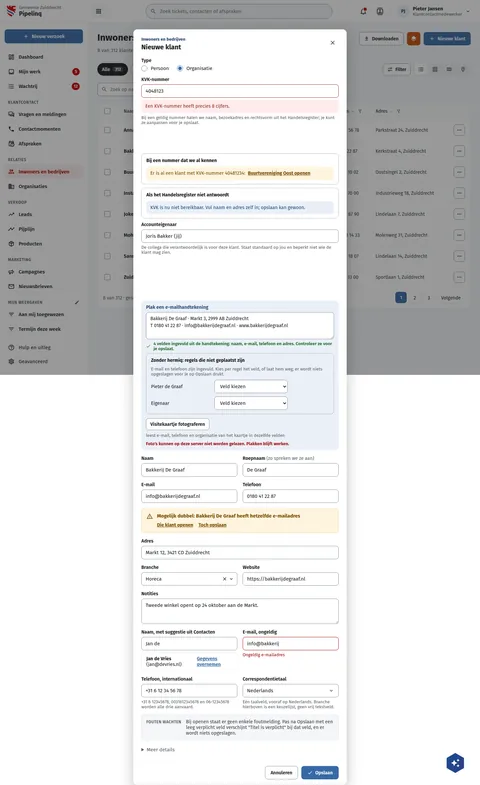
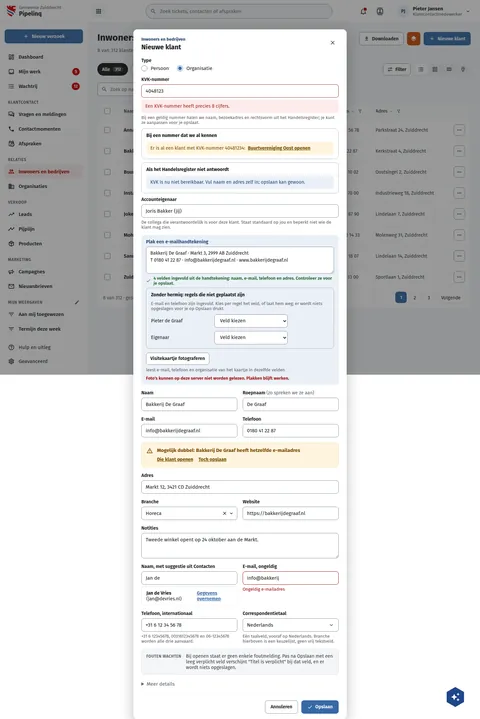
feat(screens): fold #1122 and #1125, and set the KVK frames on PqKlantNieuw under the field
Rebuilds the 33 boards of both PRs from main, with both rows' boards in rowPipelinqDekkingB6
and index.json and screens.json limited to those boards. The KVK and account owner fields on
PqKlantNieuw no longer take a 220 px flex basis inside the column, so the frames sit under them.

diff --git a/preview/screens/boards/PqKlantNieuw.html b/preview/screens/boards/PqKlantNieuw.html
@@ -327,7 +327,7 @@ a{color:var(--sc-primary, #3669a5)}a:hover{color:var(--sc-primary-deep, #234a78)
         <fieldset style="margin: 0; padding: 0; border: 0; display: flex; flex-direction: column; gap: 8px">
           <legend style="padding: 0 0 6px; font-size: 14px; font-weight: 600">Type</legend>
           <div style="display: flex; flex-wrap: wrap; gap: 24px"><label style="display: flex; align-items: center; gap: 10px; font-size: 15px; cursor: pointer"><input type="radio" name="pq-nc-type" style="width: 18px; height: 18px; margin: 0; accent-color: var(--sc-primary, #3669a5)">Persoon</label><label style="display: flex; align-items: center; gap: 10px; font-size: 15px; cursor: pointer"><input type="radio" name="pq-nc-type" checked style="width: 18px; height: 18px; margin: 0; accent-color: var(--sc-primary, #3669a5)">Organisatie</label></div>
-        </fieldset><div style="display: flex; flex-direction: column; gap: 10px"><div style="display: flex; flex-direction: column; gap: 6px; min-width: 0; flex: 1 1 220px"><label for="pq-nc-kvk" style="font-size: 14px; font-weight: 600">KVK-nummer</label><input id="pq-nc-kvk" type="text" value="4048123" aria-invalid="true" aria-describedby="pq-nc-kvk-e" style="width: 100%; box-sizing: border-box; border: 1px solid #a3281f; border-radius: 8px; font: 400 15px var(--sc-font, 'Fira Sans'), sans-serif; color: var(--sc-work-ink, #1b1c1d); background: #ffffff; height: 40px; padding: 0 12px"><span id="pq-nc-kvk-e"><span role="alert" style="display: flex; gap: 8px; align-items: flex-start; padding: 10px 12px; border-radius: 8px; background: #fdecec; color: #a3281f; font-size: 14px; line-height: 1.4">Een KVK-nummer heeft precies 8 cijfers.</span></span><span style="font-size: 13px; color: var(--sc-work-muted, #5e6168)">Bij een geldig nummer halen we naam, bezoekadres en rechtsvorm uit het Handelsregister; je kunt ze aanpassen voor je opslaat.</span></div><div style="display: flex; flex-direction: column; gap: 10px; padding: 12px 14px; border: 1px dashed var(--sc-work-field, #828a95); border-radius: 10px"><strong style="font-size: 14px">Bij een nummer dat we al kennen</strong><span style="display: flex; gap: 8px; align-items: flex-start; padding: 10px 12px; border-radius: 8px; background: #fff4de; color: #7a4f00; font-size: 14px; line-height: 1.4">Er is al een klant met KVK-nummer 40481234: <a href="PqOrganisatie.html" style="color: #7a4f00; font-weight: 700">Buurtvereniging Oost openen</a></span></div><div style="display: flex; flex-direction: column; gap: 10px; padding: 12px 14px; border: 1px dashed var(--sc-work-field, #828a95); border-radius: 10px"><strong style="font-size: 14px">Als het Handelsregister niet antwoordt</strong><span style="display: flex; gap: 8px; align-items: flex-start; padding: 10px 12px; border-radius: 8px; background: var(--sc-primary-light, #eaf0f7); color: var(--sc-primary-deep, #234a78); font-size: 14px; line-height: 1.4">KVK is nu niet bereikbaar. Vul naam en adres zelf in; opslaan kan gewoon.</span></div><div style="display: flex; flex-direction: column; gap: 6px; min-width: 0; flex: 1 1 220px"><label for="pq-nc-owner" style="font-size: 14px; font-weight: 600">Accounteigenaar</label><input id="pq-nc-owner" type="text" value="Joris Bakker (jij)" style="width: 100%; box-sizing: border-box; border: 1px solid var(--sc-work-field, #828a95); border-radius: 8px; font: 400 15px var(--sc-font, 'Fira Sans'), sans-serif; color: var(--sc-work-ink, #1b1c1d); background: #ffffff; height: 40px; padding: 0 12px"><span style="font-size: 13px; color: var(--sc-work-muted, #5e6168)">De collega die verantwoordelijk is voor deze klant. Staat standaard op jou en beperkt niet wie de klant mag zien.</span></div></div>
+        </fieldset><div style="display: flex; flex-direction: column; gap: 10px"><div style="display: flex; flex-direction: column; gap: 6px; min-width: 0"><label for="pq-nc-kvk" style="font-size: 14px; font-weight: 600">KVK-nummer</label><input id="pq-nc-kvk" type="text" value="4048123" aria-invalid="true" aria-describedby="pq-nc-kvk-e" style="width: 100%; box-sizing: border-box; border: 1px solid #a3281f; border-radius: 8px; font: 400 15px var(--sc-font, 'Fira Sans'), sans-serif; color: var(--sc-work-ink, #1b1c1d); background: #ffffff; height: 40px; padding: 0 12px"><span id="pq-nc-kvk-e"><span role="alert" style="display: flex; gap: 8px; align-items: flex-start; padding: 10px 12px; border-radius: 8px; background: #fdecec; color: #a3281f; font-size: 14px; line-height: 1.4">Een KVK-nummer heeft precies 8 cijfers.</span></span><span style="font-size: 13px; color: var(--sc-work-muted, #5e6168)">Bij een geldig nummer halen we naam, bezoekadres en rechtsvorm uit het Handelsregister; je kunt ze aanpassen voor je opslaat.</span></div><div style="display: flex; flex-direction: column; gap: 10px; padding: 12px 14px; border: 1px dashed var(--sc-work-field, #828a95); border-radius: 10px"><strong style="font-size: 14px">Bij een nummer dat we al kennen</strong><span style="display: flex; gap: 8px; align-items: flex-start; padding: 10px 12px; border-radius: 8px; background: #fff4de; color: #7a4f00; font-size: 14px; line-height: 1.4">Er is al een klant met KVK-nummer 40481234: <a href="PqOrganisatie.html" style="color: #7a4f00; font-weight: 700">Buurtvereniging Oost openen</a></span></div><div style="display: flex; flex-direction: column; gap: 10px; padding: 12px 14px; border: 1px dashed var(--sc-work-field, #828a95); border-radius: 10px"><strong style="font-size: 14px">Als het Handelsregister niet antwoordt</strong><span style="display: flex; gap: 8px; align-items: flex-start; padding: 10px 12px; border-radius: 8px; background: var(--sc-primary-light, #eaf0f7); color: var(--sc-primary-deep, #234a78); font-size: 14px; line-height: 1.4">KVK is nu niet bereikbaar. Vul naam en adres zelf in; opslaan kan gewoon.</span></div><div style="display: flex; flex-direction: column; gap: 6px; min-width: 0"><label for="pq-nc-owner" style="font-size: 14px; font-weight: 600">Accounteigenaar</label><input id="pq-nc-owner" type="text" value="Joris Bakker (jij)" style="width: 100%; box-sizing: border-box; border: 1px solid var(--sc-work-field, #828a95); border-radius: 8px; font: 400 15px var(--sc-font, 'Fira Sans'), sans-serif; color: var(--sc-work-ink, #1b1c1d); background: #ffffff; height: 40px; padding: 0 12px"><span style="font-size: 13px; color: var(--sc-work-muted, #5e6168)">De collega die verantwoordelijk is voor deze klant. Staat standaard op jou en beperkt niet wie de klant mag zien.</span></div></div>
         <div style="display: flex; flex-direction: column; gap: 6px; min-width: 0; padding: 12px 14px; border-radius: 10px; background: var(--sc-primary-light, #eaf0f7)"><label for="pq-nc-paste" style="font-size: 14px; font-weight: 600; color: var(--sc-primary-deep, #234a78)">Plak een e-mailhandtekening</label><textarea id="pq-nc-paste" rows="3" placeholder="Plak hier de handtekening onder een e-mail. We vullen naam, e-mail, telefoon en adres in." style="width: 100%; box-sizing: border-box; padding: 8px 12px; border: 1px solid var(--sc-work-field, #828a95); border-radius: 8px; background: #ffffff; font: 400 14px/1.5 var(--sc-font, 'Fira Sans'), sans-serif; color: var(--sc-work-ink, #1b1c1d); resize: vertical">Bakkerij De Graaf · Markt 3, 2999 AB Zuiddrecht
 T 0180 41 22 87 · info@bakkerijdegraaf.nl · www.bakkerijdegraaf.nl</textarea><span style="display: flex; align-items: center; gap: 8px; font-size: 13px; color: #1e6b2a; font-weight: 600"><svg width="16" height="16" viewbox="0 0 24 24" fill="currentColor" aria-hidden="true"><path d="M21,7L9,19L3.5,13.5L4.91,12.09L9,16.17L19.59,5.59L21,7Z"></path></svg>4 velden ingevuld uit de handtekening: naam, e-mail, telefoon en adres. Controleer ze voor je opslaat.</span><div style="display: flex; flex-direction: column; gap: 10px; padding: 12px 14px; border: 1px dashed var(--sc-work-field, #828a95); border-radius: 10px"><strong style="font-size: 14px">Zonder hermiq: regels die niet geplaatst zijn</strong><div style="display: flex; flex-direction: column; gap: 10px"><span style="font-size: 13px; color: var(--sc-work-muted, #5e6168)">E-mail en telefoon zijn ingevuld. Kies per regel het veld, of laat hem weg; er wordt niets opgeslagen voor je op Opslaan drukt.</span><div style="display: flex; flex-wrap: wrap; gap: 10px; align-items: center"><span style="font-size: 14px; min-width: 180px">Pieter de Graaf</span><label for="pq-nc-un1" style="position: absolute; width: 1px; height: 1px; overflow: hidden; clip: rect(0 0 0 0)">Veld voor Pieter de Graaf</label><span style="flex: 0 1 220px"><select id="pq-nc-un1" style="width: 100%; box-sizing: border-box; border: 1px solid var(--sc-work-field, #828a95); border-radius: 8px; font: 400 15px var(--sc-font, 'Fira Sans'), sans-serif; color: var(--sc-work-ink, #1b1c1d); background: #ffffff; height: 40px; padding: 0 12px"><option selected>Veld kiezen</option><option>Naam</option><option>Functie</option><option>Omschrijving</option><option>Weglaten</option></select></span></div><div style="display: flex; flex-wrap: wrap; gap: 10px; align-items: center"><span style="font-size: 14px; min-width: 180px">Eigenaar</span><label for="pq-nc-un2" style="position: absolute; width: 1px; height: 1px; overflow: hidden; clip: rect(0 0 0 0)">Veld voor Eigenaar</label><span style="flex: 0 1 220px"><select id="pq-nc-un2" style="width: 100%; box-sizing: border-box; border: 1px solid var(--sc-work-field, #828a95); border-radius: 8px; font: 400 15px var(--sc-font, 'Fira Sans'), sans-serif; color: var(--sc-work-ink, #1b1c1d); background: #ffffff; height: 40px; padding: 0 12px"><option selected>Veld kiezen</option><option>Functie</option><option>Naam</option><option>Omschrijving</option><option>Weglaten</option></select></span></div></div></div><div style="display: flex; flex-wrap: wrap; gap: 8px 14px; align-items: center; margin-top: 6px"><button type="button" style="display: inline-flex; align-items: center; gap: 8px; height: 36px; padding: 0 12px; border: 1px solid var(--sc-work-field, #828a95); border-radius: 8px; background: #ffffff; font: 600 14px var(--sc-font, 'Fira Sans'), sans-serif; color: var(--sc-work-ink, #1b1c1d); white-space: nowrap; text-decoration: none">Visitekaartje fotograferen</button><span style="font-size: 13px; color: var(--sc-work-muted, #5e6168)">leest e-mail, telefoon en organisatie van het kaartje in dezelfde velden</span></div><span role="alert" style="display: flex; align-items: center; gap: 8px; font-size: 13px; color: var(--sc-accent-deep, #a30000); font-weight: 600; margin-top: 4px">Foto's kunnen op deze server niet worden gelezen. Plakken blijft werken.</span></div>
         <div style="display: grid; grid-template-columns: repeat(auto-fit, minmax(240px, 1fr)); gap: 16px"><div style="display: flex; flex-direction: column; gap: 6px; min-width: 0"><label for="pq-nc-name" style="font-size: 14px; font-weight: 600">Naam</label><input id="pq-nc-name" type="text" value="Bakkerij De Graaf" placeholder="" style="width: 100%; height: 40px; box-sizing: border-box; padding: 0 12px; border: 1px solid var(--sc-work-field, #828a95); border-radius: 8px; font: 400 15px var(--sc-font, 'Fira Sans'), sans-serif; color: var(--sc-work-ink, #1b1c1d)"></div><div style="display: flex; flex-direction: column; gap: 6px; min-width: 0"><label for="pq-nc-preferred" style="font-size: 14px; font-weight: 600">Roepnaam <span style="font-weight: 400; color: var(--sc-work-muted, #5e6168)">(zo spreken we ze aan)</span></label><input id="pq-nc-preferred" type="text" value="De Graaf" placeholder="" style="width: 100%; height: 40px; box-sizing: border-box; padding: 0 12px; border: 1px solid var(--sc-work-field, #828a95); border-radius: 8px; font: 400 15px var(--sc-font, 'Fira Sans'), sans-serif; color: var(--sc-work-ink, #1b1c1d)"></div></div>

diff --git a/screens-src/zuiddrecht/PqKlantNieuw.dc.html b/screens-src/zuiddrecht/PqKlantNieuw.dc.html
@@ -102,7 +102,7 @@ a{color:#3669a5}a:hover{color:#234a78}
         <fieldset style="margin: 0; padding: 0; border: 0; display: flex; flex-direction: column; gap: 8px">
           <legend style="padding: 0 0 6px; font-size: 14px; font-weight: 600">Type</legend>
           <div style="display: flex; flex-wrap: wrap; gap: 24px"><label style="display: flex; align-items: center; gap: 10px; font-size: 15px; cursor: pointer"><input type="radio" name="pq-nc-type" style="width: 18px; height: 18px; margin: 0; accent-color: #3669a5">Persoon</label><label style="display: flex; align-items: center; gap: 10px; font-size: 15px; cursor: pointer"><input type="radio" name="pq-nc-type" checked style="width: 18px; height: 18px; margin: 0; accent-color: #3669a5">Organisatie</label></div>
-        </fieldset><div style="display: flex; flex-direction: column; gap: 10px"><div style="display: flex; flex-direction: column; gap: 6px; min-width: 0; flex: 1 1 220px"><label for="pq-nc-kvk" style="font-size: 14px; font-weight: 600">KVK-nummer</label><input id="pq-nc-kvk" type="text" value="4048123" aria-invalid="true" aria-describedby="pq-nc-kvk-e" style="width: 100%; box-sizing: border-box; border: 1px solid #a3281f; border-radius: 8px; font: 400 15px 'Fira Sans', sans-serif; color: #1b1c1d; background: #ffffff; height: 40px; padding: 0 12px"><span id="pq-nc-kvk-e"><span role="alert" style="display: flex; gap: 8px; align-items: flex-start; padding: 10px 12px; border-radius: 8px; background: #fdecec; color: #a3281f; font-size: 14px; line-height: 1.4">Een KVK-nummer heeft precies 8 cijfers.</span></span><span style="font-size: 13px; color: #5e6168">Bij een geldig nummer halen we naam, bezoekadres en rechtsvorm uit het Handelsregister; je kunt ze aanpassen voor je opslaat.</span></div><div style="display: flex; flex-direction: column; gap: 10px; padding: 12px 14px; border: 1px dashed #828a95; border-radius: 10px"><strong style="font-size: 14px">Bij een nummer dat we al kennen</strong><span style="display: flex; gap: 8px; align-items: flex-start; padding: 10px 12px; border-radius: 8px; background: #fff4de; color: #7a4f00; font-size: 14px; line-height: 1.4">Er is al een klant met KVK-nummer 40481234: <a href="PqOrganisatie.dc.html" style="color: #7a4f00; font-weight: 700">Buurtvereniging Oost openen</a></span></div><div style="display: flex; flex-direction: column; gap: 10px; padding: 12px 14px; border: 1px dashed #828a95; border-radius: 10px"><strong style="font-size: 14px">Als het Handelsregister niet antwoordt</strong><span style="display: flex; gap: 8px; align-items: flex-start; padding: 10px 12px; border-radius: 8px; background: #eaf0f7; color: #234a78; font-size: 14px; line-height: 1.4">KVK is nu niet bereikbaar. Vul naam en adres zelf in; opslaan kan gewoon.</span></div><div style="display: flex; flex-direction: column; gap: 6px; min-width: 0; flex: 1 1 220px"><label for="pq-nc-owner" style="font-size: 14px; font-weight: 600">Accounteigenaar</label><input id="pq-nc-owner" type="text" value="Joris Bakker (jij)" style="width: 100%; box-sizing: border-box; border: 1px solid #828a95; border-radius: 8px; font: 400 15px 'Fira Sans', sans-serif; color: #1b1c1d; background: #ffffff; height: 40px; padding: 0 12px"><span style="font-size: 13px; color: #5e6168">De collega die verantwoordelijk is voor deze klant. Staat standaard op jou en beperkt niet wie de klant mag zien.</span></div></div>
+        </fieldset><div style="display: flex; flex-direction: column; gap: 10px"><div style="display: flex; flex-direction: column; gap: 6px; min-width: 0"><label for="pq-nc-kvk" style="font-size: 14px; font-weight: 600">KVK-nummer</label><input id="pq-nc-kvk" type="text" value="4048123" aria-invalid="true" aria-describedby="pq-nc-kvk-e" style="width: 100%; box-sizing: border-box; border: 1px solid #a3281f; border-radius: 8px; font: 400 15px 'Fira Sans', sans-serif; color: #1b1c1d; background: #ffffff; height: 40px; padding: 0 12px"><span id="pq-nc-kvk-e"><span role="alert" style="display: flex; gap: 8px; align-items: flex-start; padding: 10px 12px; border-radius: 8px; background: #fdecec; color: #a3281f; font-size: 14px; line-height: 1.4">Een KVK-nummer heeft precies 8 cijfers.</span></span><span style="font-size: 13px; color: #5e6168">Bij een geldig nummer halen we naam, bezoekadres en rechtsvorm uit het Handelsregister; je kunt ze aanpassen voor je opslaat.</span></div><div style="display: flex; flex-direction: column; gap: 10px; padding: 12px 14px; border: 1px dashed #828a95; border-radius: 10px"><strong style="font-size: 14px">Bij een nummer dat we al kennen</strong><span style="display: flex; gap: 8px; align-items: flex-start; padding: 10px 12px; border-radius: 8px; background: #fff4de; color: #7a4f00; font-size: 14px; line-height: 1.4">Er is al een klant met KVK-nummer 40481234: <a href="PqOrganisatie.dc.html" style="color: #7a4f00; font-weight: 700">Buurtvereniging Oost openen</a></span></div><div style="display: flex; flex-direction: column; gap: 10px; padding: 12px 14px; border: 1px dashed #828a95; border-radius: 10px"><strong style="font-size: 14px">Als het Handelsregister niet antwoordt</strong><span style="display: flex; gap: 8px; align-items: flex-start; padding: 10px 12px; border-radius: 8px; background: #eaf0f7; color: #234a78; font-size: 14px; line-height: 1.4">KVK is nu niet bereikbaar. Vul naam en adres zelf in; opslaan kan gewoon.</span></div><div style="display: flex; flex-direction: column; gap: 6px; min-width: 0"><label for="pq-nc-owner" style="font-size: 14px; font-weight: 600">Accounteigenaar</label><input id="pq-nc-owner" type="text" value="Joris Bakker (jij)" style="width: 100%; box-sizing: border-box; border: 1px solid #828a95; border-radius: 8px; font: 400 15px 'Fira Sans', sans-serif; color: #1b1c1d; background: #ffffff; height: 40px; padding: 0 12px"><span style="font-size: 13px; color: #5e6168">De collega die verantwoordelijk is voor deze klant. Staat standaard op jou en beperkt niet wie de klant mag zien.</span></div></div>
         <div style="display: flex; flex-direction: column; gap: 6px; min-width: 0; padding: 12px 14px; border-radius: 10px; background: #eaf0f7"><label for="pq-nc-paste" style="font-size: 14px; font-weight: 600; color: #234a78">Plak een e-mailhandtekening</label><textarea id="pq-nc-paste" rows="3" placeholder="Plak hier de handtekening onder een e-mail. We vullen naam, e-mail, telefoon en adres in." style="width: 100%; box-sizing: border-box; padding: 8px 12px; border: 1px solid #828a95; border-radius: 8px; background: #ffffff; font: 400 14px/1.5 'Fira Sans', sans-serif; color: #1b1c1d; resize: vertical">Bakkerij De Graaf · Markt 3, 2999 AB Zuiddrecht
 T 0180 41 22 87 · info@bakkerijdegraaf.nl · www.bakkerijdegraaf.nl</textarea><span style="display: flex; align-items: center; gap: 8px; font-size: 13px; color: #1e6b2a; font-weight: 600"><svg width="16" height="16" viewBox="0 0 24 24" fill="currentColor" aria-hidden="true"><path d="M21,7L9,19L3.5,13.5L4.91,12.09L9,16.17L19.59,5.59L21,7Z"></path></svg>4 velden ingevuld uit de handtekening: naam, e-mail, telefoon en adres. Controleer ze voor je opslaat.</span><div style="display: flex; flex-direction: column; gap: 10px; padding: 12px 14px; border: 1px dashed #828a95; border-radius: 10px"><strong style="font-size: 14px">Zonder hermiq: regels die niet geplaatst zijn</strong><div style="display: flex; flex-direction: column; gap: 10px"><span style="font-size: 13px; color: #5e6168">E-mail en telefoon zijn ingevuld. Kies per regel het veld, of laat hem weg; er wordt niets opgeslagen voor je op Opslaan drukt.</span><div style="display: flex; flex-wrap: wrap; gap: 10px; align-items: center"><span style="font-size: 14px; min-width: 180px">Pieter de Graaf</span><label for="pq-nc-un1" style="position: absolute; width: 1px; height: 1px; overflow: hidden; clip: rect(0 0 0 0)">Veld voor Pieter de Graaf</label><span style="flex: 0 1 220px"><select id="pq-nc-un1" style="width: 100%; box-sizing: border-box; border: 1px solid #828a95; border-radius: 8px; font: 400 15px 'Fira Sans', sans-serif; color: #1b1c1d; background: #ffffff; height: 40px; padding: 0 12px"><option selected>Veld kiezen</option><option>Naam</option><option>Functie</option><option>Omschrijving</option><option>Weglaten</option></select></span></div><div style="display: flex; flex-wrap: wrap; gap: 10px; align-items: center"><span style="font-size: 14px; min-width: 180px">Eigenaar</span><label for="pq-nc-un2" style="position: absolute; width: 1px; height: 1px; overflow: hidden; clip: rect(0 0 0 0)">Veld voor Eigenaar</label><span style="flex: 0 1 220px"><select id="pq-nc-un2" style="width: 100%; box-sizing: border-box; border: 1px solid #828a95; border-radius: 8px; font: 400 15px 'Fira Sans', sans-serif; color: #1b1c1d; background: #ffffff; height: 40px; padding: 0 12px"><option selected>Veld kiezen</option><option>Functie</option><option>Naam</option><option>Omschrijving</option><option>Weglaten</option></select></span></div></div></div><div style="display: flex; flex-wrap: wrap; gap: 8px 14px; align-items: center; margin-top: 6px"><button type="button" style="{{ s.btn }}">Visitekaartje fotograferen</button><span style="{{ s.muted }}">leest e-mail, telefoon en organisatie van het kaartje in dezelfde velden</span></div><span role="alert" style="display: flex; align-items: center; gap: 8px; font-size: 13px; color: #a30000; font-weight: 600; margin-top: 4px">Foto's kunnen op deze server niet worden gelezen. Plakken blijft werken.</span></div>
         <div style="display: grid; grid-template-columns: repeat(auto-fit, minmax(240px, 1fr)); gap: 16px"><div style="display: flex; flex-direction: column; gap: 6px; min-width: 0"><label for="pq-nc-name" style="font-size: 14px; font-weight: 600">Naam</label><input id="pq-nc-name" type="text" value="Bakkerij De Graaf" placeholder="" style="width: 100%; height: 40px; box-sizing: border-box; padding: 0 12px; border: 1px solid #828a95; border-radius: 8px; font: 400 15px 'Fira Sans', sans-serif; color: #1b1c1d"></div><div style="display: flex; flex-direction: column; gap: 6px; min-width: 0"><label for="pq-nc-preferred" style="font-size: 14px; font-weight: 600">Roepnaam <span style="font-weight: 400; color: #5e6168">(zo spreken we ze aan)</span></label><input id="pq-nc-preferred" type="text" value="De Graaf" placeholder="" style="width: 100%; height: 40px; box-sizing: border-box; padding: 0 12px; border: 1px solid #828a95; border-radius: 8px; font: 400 15px 'Fira Sans', sans-serif; color: #1b1c1d"></div></div>
